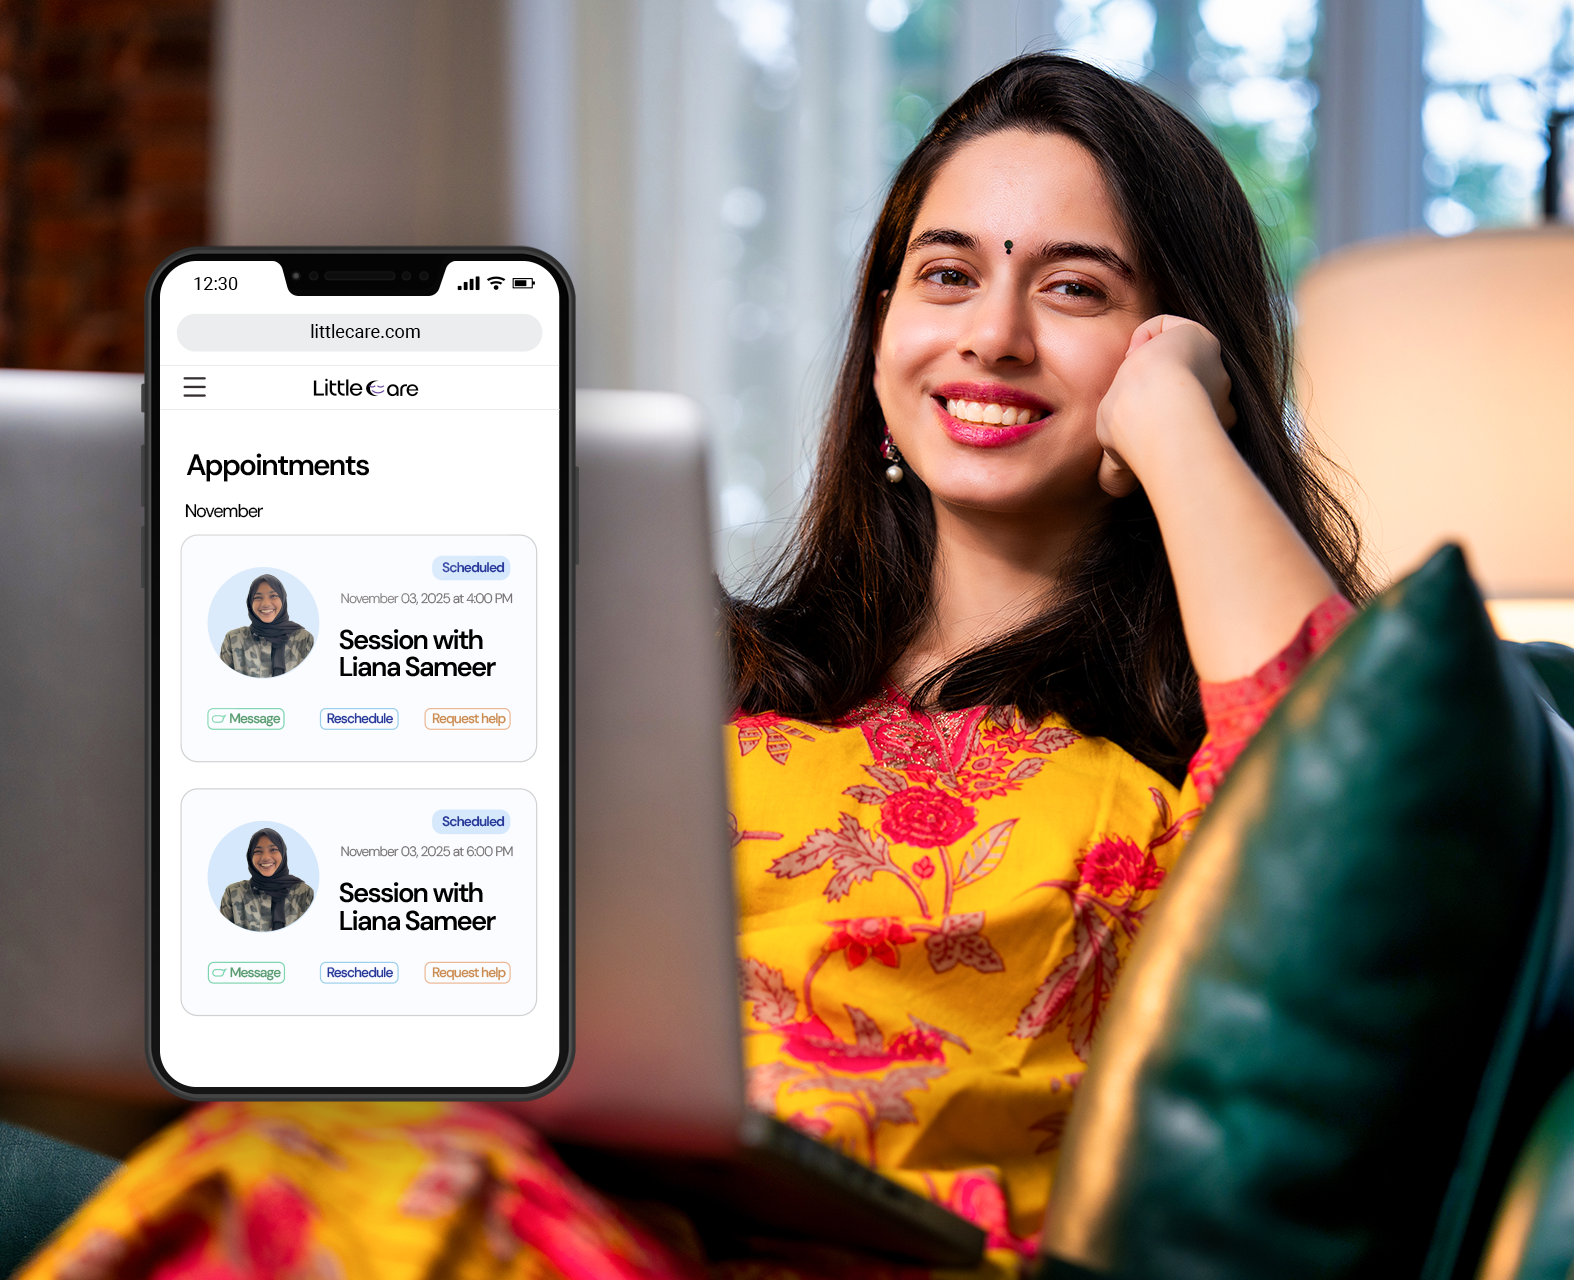
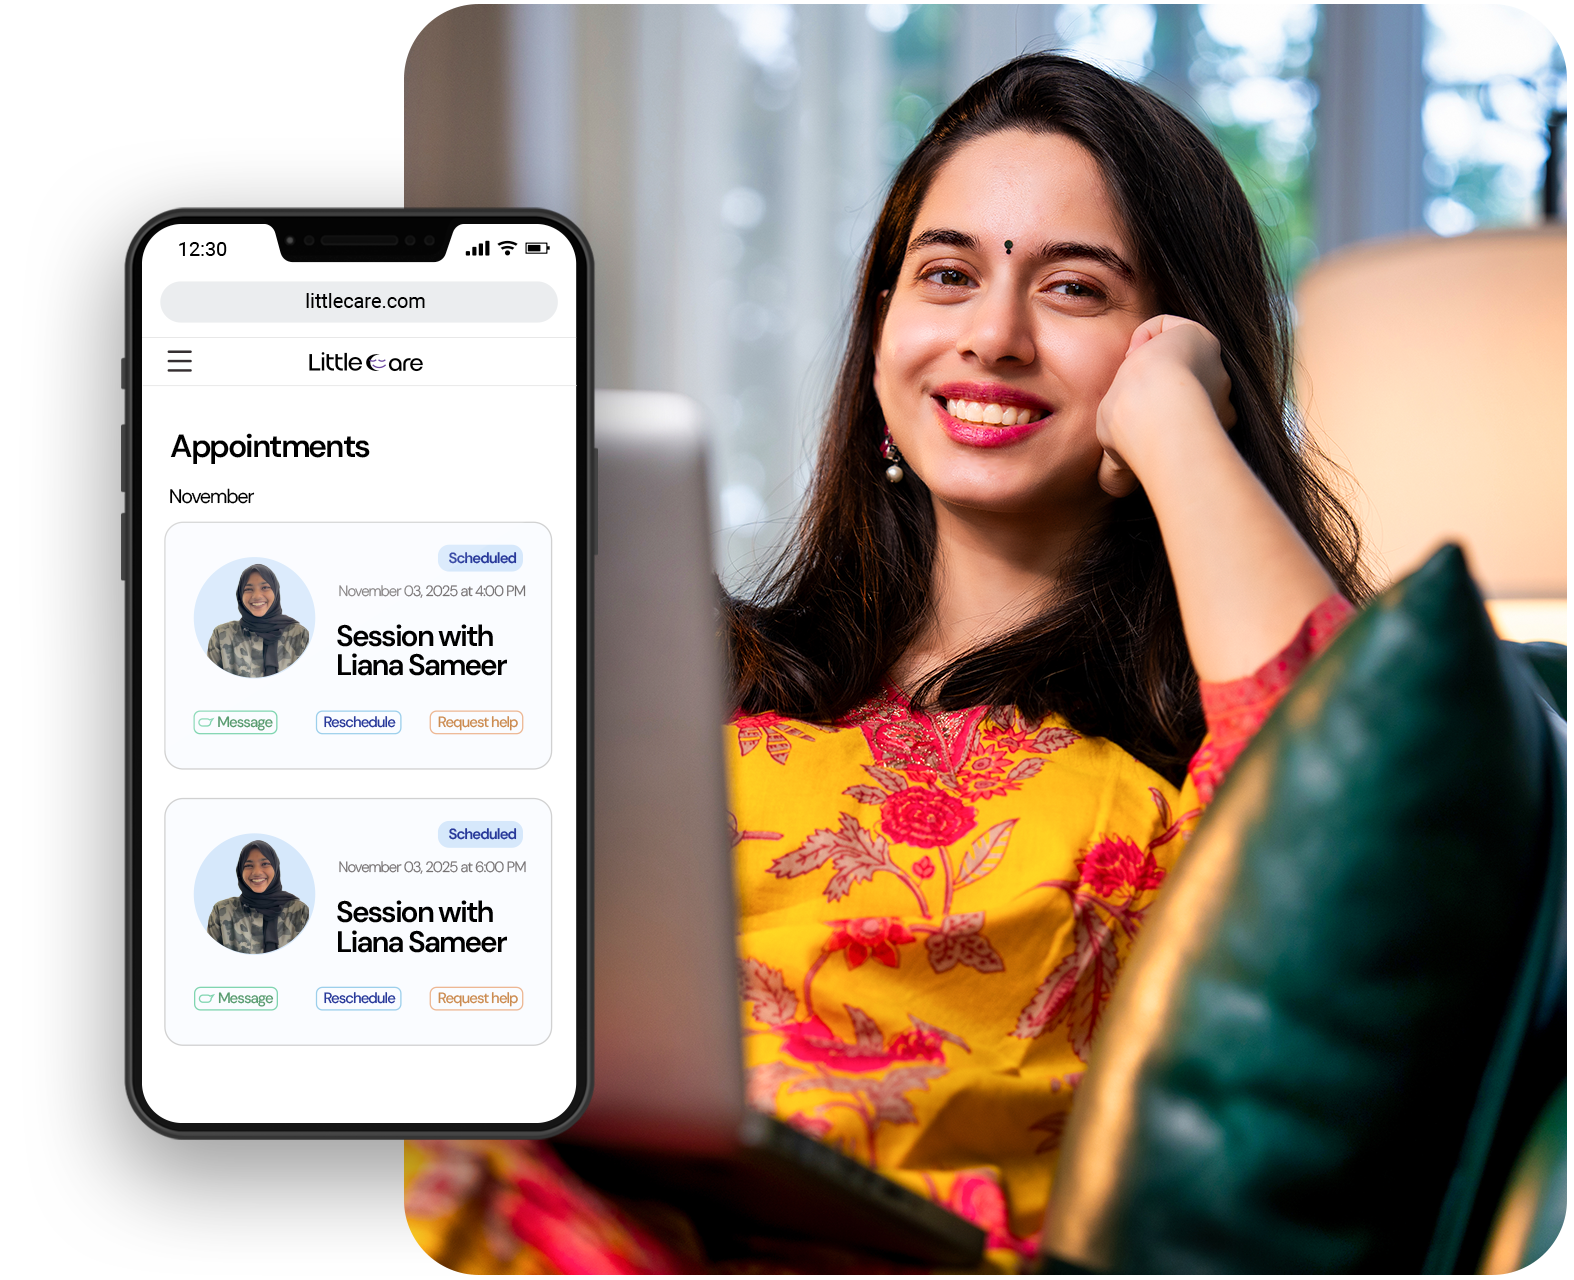
responsive alsi

Changed region(s): [[0.0, 0.0, 1.0, 1.0]]

diff --git a/src/components/SupportFaq.jsx b/src/components/SupportFaq.jsx
@@ -128,13 +128,13 @@ export default function SupportFaq() {
               key={(
                 active === 3 ? '/ourpromise4.webp' :
                 active === 2 ? '/ourpromise3.png' :
-                active === 1 ? '/ourpromise2.webp' :
+                active === 1 ? '/ourpromise2.png' :
                 items[active >= 0 ? active : 0]?.image
               ) || 'fallback'}
               src={
                 active === 3 ? '/ourpromise4.webp' :
                 active === 2 ? '/ourpromise3.png' :
-                active === 1 ? '/ourpromise2.webp' :
+                active === 1 ? '/ourpromise2.png' :
                 active === 0 ? '/ourpromise1.png' :
                 items[active >= 0 ? active : 0]?.image
               }

diff --git a/src/app/profile/contact/page.js b/src/app/profile/contact/page.js
@@ -168,12 +168,6 @@ export default function ContactPage() {
     <div className="bg-white shadow rounded-lg p-6">
       <h5 className="text-gray-900 mb-6">Contact Information</h5>
 
-      <div className="bg-blue-50 border border-blue-200 rounded-lg p-4 mb-6">
-        <h6 className="text-blue-800 mb-2">Required Information</h6>
-        <p className="text-blue-700">
-          All fields below are required to book therapy sessions. This information helps us provide personalized care for your child.
-        </p>
-      </div>
 
       <form className="space-y-6" onSubmit={handleSaveContact}>
         <div className="grid grid-cols-1 sm:grid-cols-2 gap-4">

diff --git a/src/components/HelpFaq.jsx b/src/components/HelpFaq.jsx
@@ -67,7 +67,7 @@ export default function HelpFaq({ cmsData = null }) {
     DATA;
 
   // Get the left image from CMS data or use default
-  const leftImageUrl = cmsData?.leftImageUrl || "/360_F_262015638_nxpC4t1wbe8cLiVX3eholwctgVItTqF6.png";
+  const leftImageUrl = cmsData?.leftImageUrl || "/footerfaq.png";
 
   return (
     <section className="w-full mt-20 px-4 lg:px-6">
